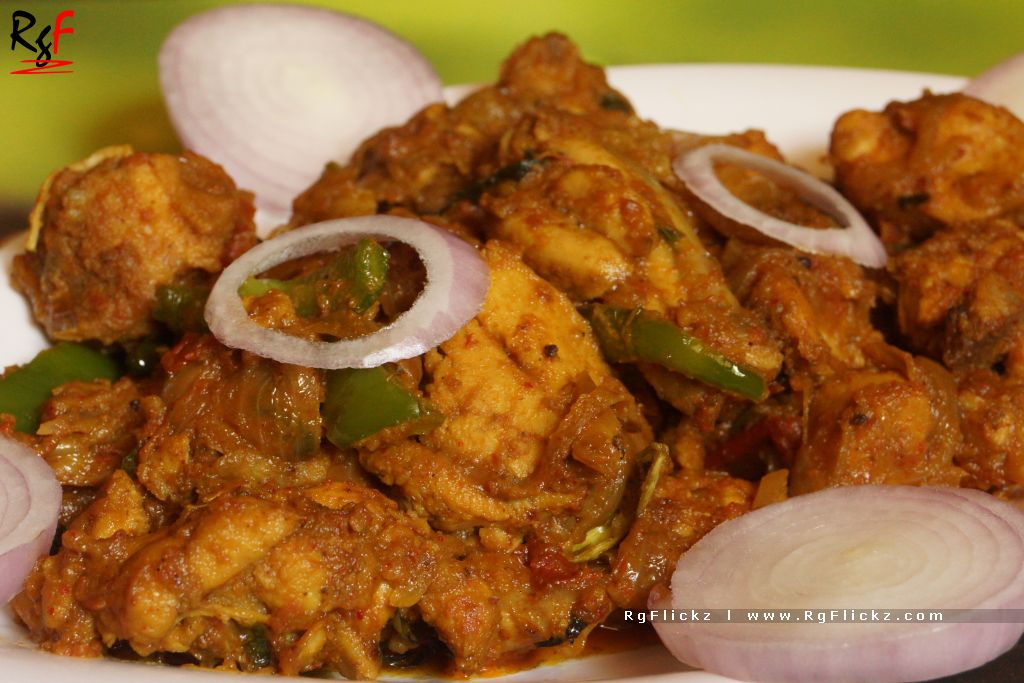
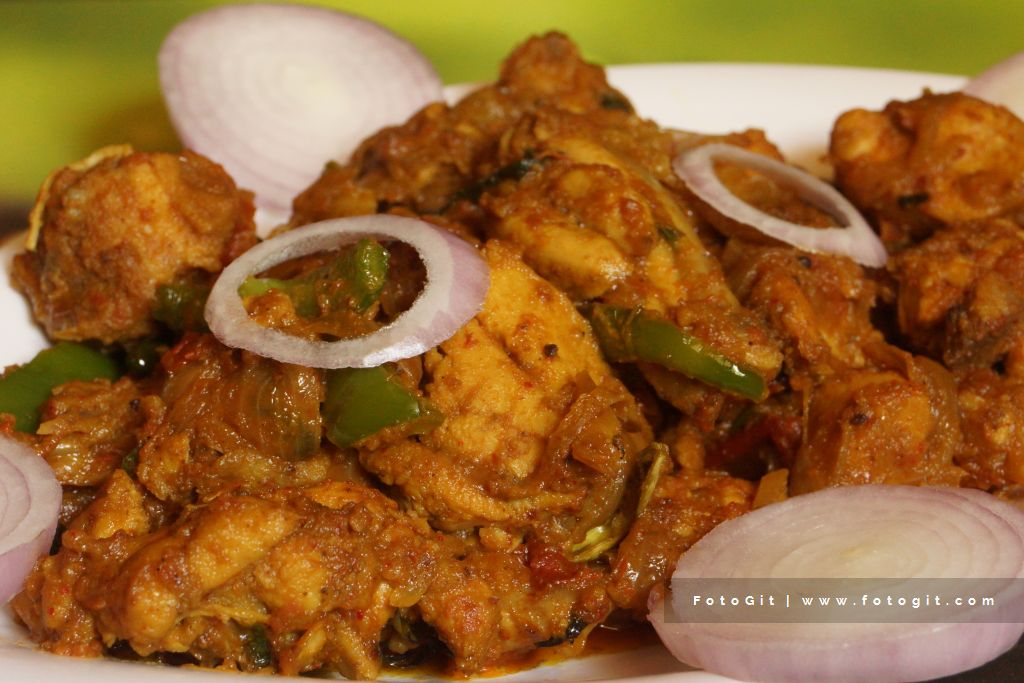
Links and associated photos update

Changed region(s): [[0.5938, 0.8302, 1.0, 0.9224], [0.0, 0.0, 0.0938, 0.123]]

diff --git a/portfolio/index.html b/portfolio/index.html
@@ -77,7 +77,7 @@
 
 			<!-- title -->
 			<div class="title">
-				<span class="big">PORTFOLIO</span> <span class="small">RgF World of Photography.</span>
+				<span class="big">PORTFOLIO</span> <span class="small">FotoGit World of Photography.</span>
 			</div>
 			<!-- ENDS title -->
 			<!-- Thumbnails -->
@@ -104,7 +104,8 @@
 					<h6>LINKS</h6>
 					<ul>
 						<li><a href="http://www.rayaguru.com" target="_blank">Rayaguru</a></li>
-						<li><a href="http://www.rgverticalz.com" target="_blank">RgVerticalz</a></li>
+						<li><a href="http://www.foxaide.com" target="_blank">FoxAide</a></li>
+						<li><a href="http://www.foodhopper.in" target="_blank">Foodhopper</a></li>
 					</ul>
 				</li>
 				<li class="col">

diff --git a/about.html b/about.html
@@ -158,7 +158,8 @@
 					<h6>LINKS</h6>
 					<ul>
 						<li><a href="http://www.rayaguru.com" target="_blank">Rayaguru</a></li>
-						<li><a href="http://www.rgverticalz.com" target="_blank">RgVerticalz</a></li>
+						<li><a href="http://www.foxaide.com" target="_blank">FoxAide</a></li>
+						<li><a href="http://www.foodhopper.in" target="_blank">Foodhopper</a></li>
 					</ul>
 				</li>
 				<li class="col">

diff --git a/contact.html b/contact.html
@@ -130,7 +130,8 @@
 					<h6>LINKS</h6>
 					<ul>
 						<li><a href="http://www.rayaguru.com" target="_blank">Rayaguru</a></li>
-						<li><a href="http://www.rgverticalz.com" target="_blank">RgVerticalz</a></li>
+						<li><a href="http://www.foxaide.com" target="_blank">FoxAide</a></li>
+						<li><a href="http://www.foodhopper.in" target="_blank">Foodhopper</a></li>
 					</ul>
 				</li>
 				<li class="col">

diff --git a/index.html b/index.html
@@ -107,7 +107,8 @@
 					<h6>LINKS</h6>
 					<ul>
 						<li><a href="http://www.rayaguru.com" target="_blank">Rayaguru</a></li>
-						<li><a href="http://www.rgverticalz.com" target="_blank">RgVerticalz</a></li>
+						<li><a href="http://www.foxaide.com" target="_blank">FoxAide</a></li>
+						<li><a href="http://www.foodhopper.in" target="_blank">Foodhopper</a></li>
 					</ul>
 				</li>
 				<li class="col">

diff --git a/portfolio/bikez/index.html b/portfolio/bikez/index.html
@@ -112,7 +112,8 @@
 					<h6>LINKS</h6>
 					<ul>
 						<li><a href="http://www.rayaguru.com" target="_blank">Rayaguru</a></li>
-						<li><a href="http://www.rgverticalz.com" target="_blank">RgVerticalz</a></li>
+						<li><a href="http://www.foxaide.com" target="_blank">FoxAide</a></li>
+						<li><a href="http://www.foodhopper.in" target="_blank">Foodhopper</a></li>
 					</ul>
 				</li>
 				<li class="col">

diff --git a/portfolio/foodz/index.html b/portfolio/foodz/index.html
@@ -112,7 +112,8 @@
 					<h6>LINKS</h6>
 					<ul>
 						<li><a href="http://www.rayaguru.com" target="_blank">Rayaguru</a></li>
-						<li><a href="http://www.rgverticalz.com" target="_blank">RgVerticalz</a></li>
+						<li><a href="http://www.foxaide.com" target="_blank">FoxAide</a></li>
+						<li><a href="http://www.foodhopper.in" target="_blank">Foodhopper</a></li>
 					</ul>
 				</li>
 				<li class="col">

diff --git a/portfolio/kidz/index.html b/portfolio/kidz/index.html
@@ -112,7 +112,8 @@
 					<h6>LINKS</h6>
 					<ul>
 						<li><a href="http://www.rayaguru.com" target="_blank">Rayaguru</a></li>
-						<li><a href="http://www.rgverticalz.com" target="_blank">RgVerticalz</a></li>
+						<li><a href="http://www.foxaide.com" target="_blank">FoxAide</a></li>
+						<li><a href="http://www.foodhopper.in" target="_blank">Foodhopper</a></li>
 					</ul>
 				</li>
 				<li class="col">
